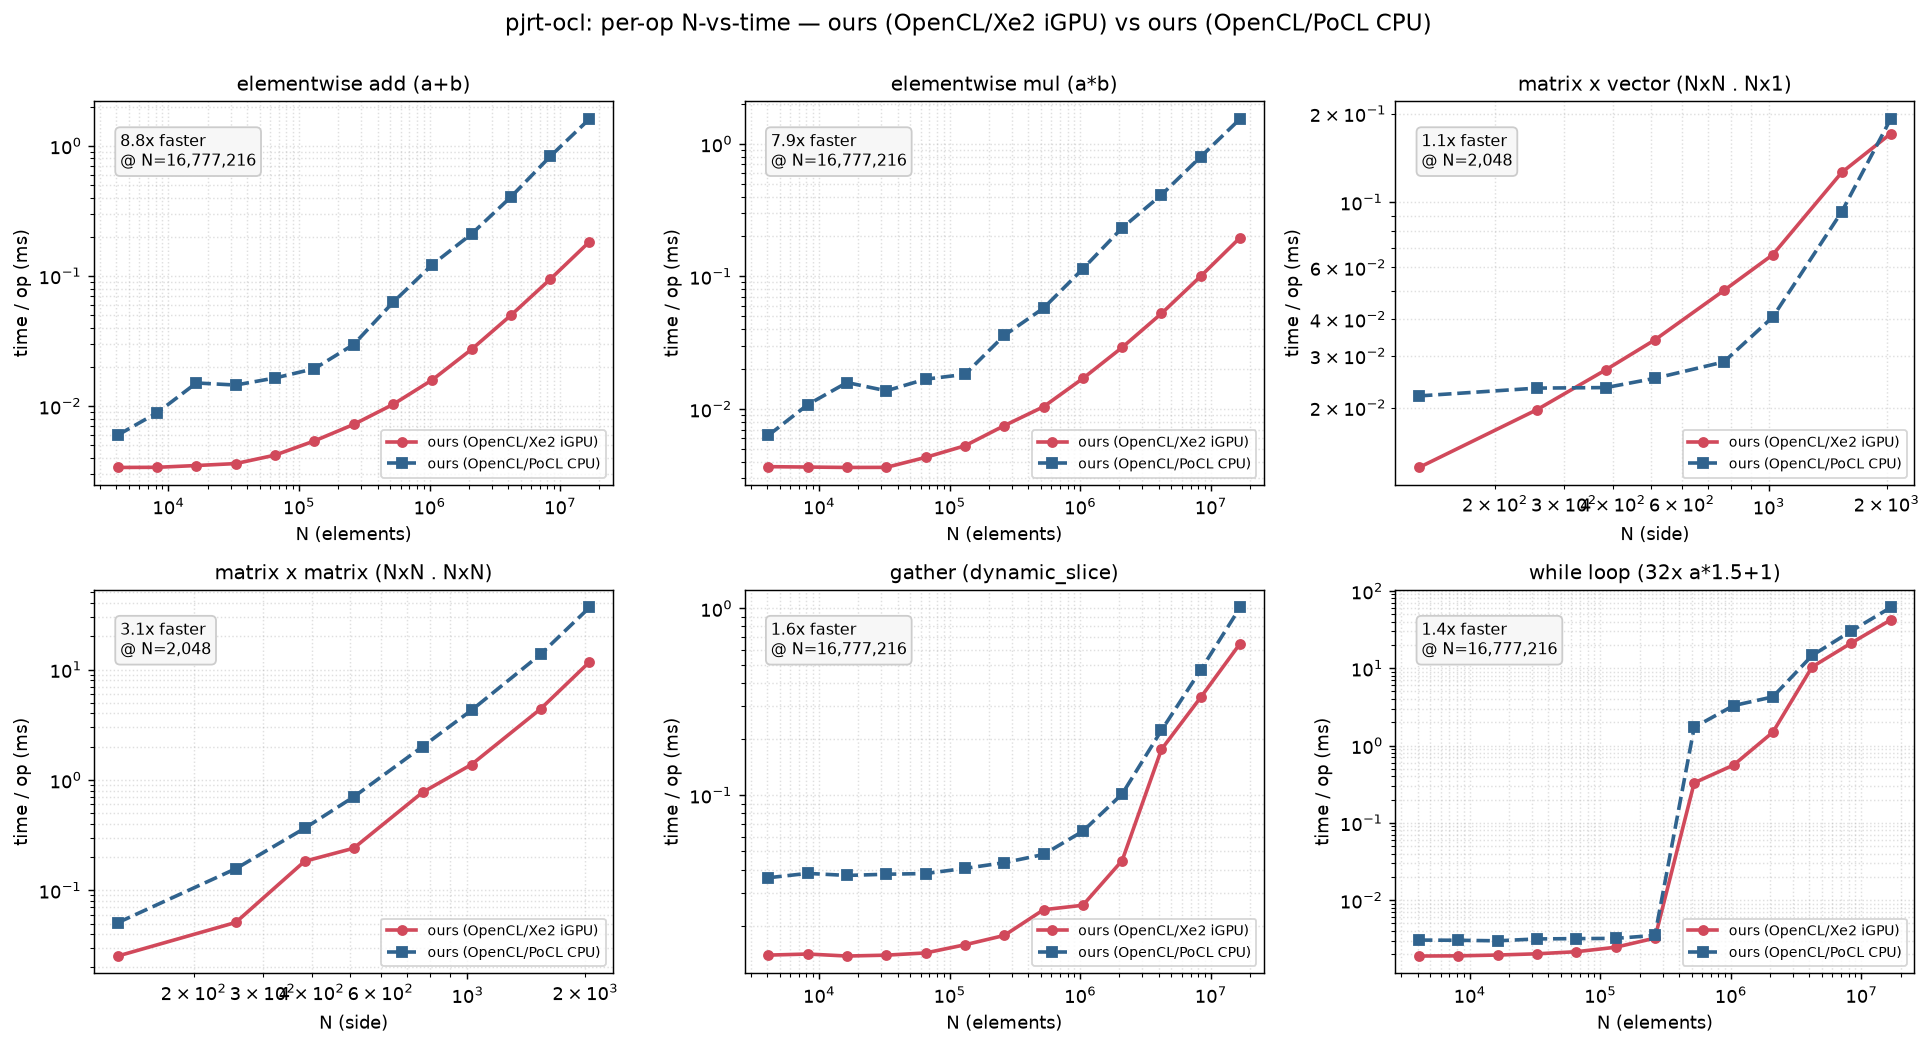
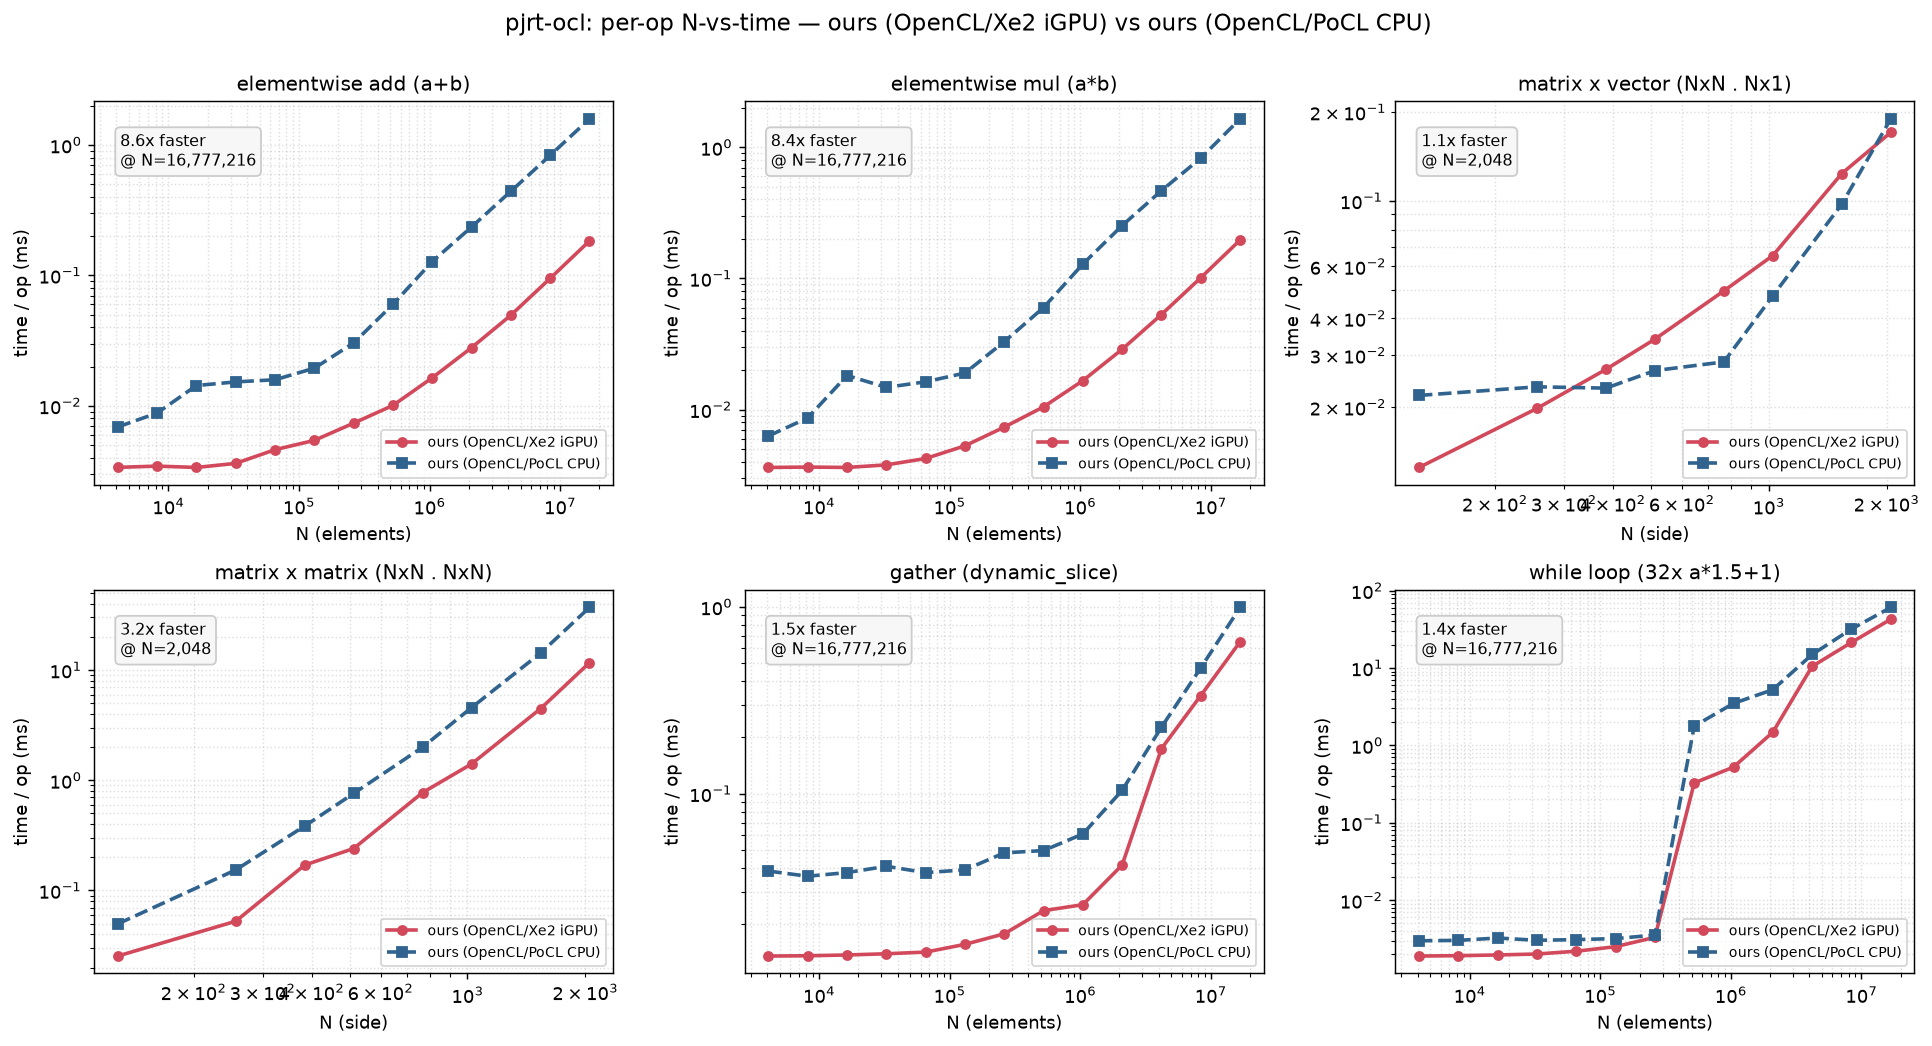
docs(README): regenerate Xe2/PoCL benchmarks against current HEAD + flag the open Xe2 softmax bug
Benchmarks re-run fresh so the README provably matches the committed code
(no plugin changes since the last regen; re-run anyway to be sure).

Xe2 vs JAX CPU: matmul now faster at EVERY measured size — 1.2x at 128, 1.8x
at 768, 2.4x at 1024, 2.5x at 2048 (11.7ms = ~1.47 TFLOP/s); elementwise
2.1-2.4x at 16M; gather 2.0x behind; while ~parity. Xe2 vs PoCL: 8.5x
elementwise, 3.2x matmul at 2048.

Two further corrections to claims that did not survive measurement:
- The PoCL bullet still carried the 'XLA fuses, we do not' story I had already
  fixed for Xe2. On PoCL our chain fusion IS weaker (16 chained adds = 7.7x a
  single add, vs 1.25x on Xe2) but the old '~16x the memory traffic' was wrong.
- 'PoCL streaming reaches ~120 GB/s (near LPDDR5X peak)' was an artifact of
  dividing a partially-fused chain by 16. True single-pass rate is ~56 GB/s.
- PoCL matmul at 2048 is now at parity, not 1.2x behind — but the XLA CPU
  reference swung 30->42ms between runs, so it is stated as parity, not a win.

Adds the 18/18 workload-suite result for Xe2, and a prominent warning that the
fused softmax kernel returns wrong results on Xe2 (§50) — it slips under the
test tolerance, so 'suite green' above must not be read as 'softmax correct'.

diff --git a/README.md b/README.md
@@ -7,7 +7,9 @@ on the execution path.
 
 > ⚠️ **Experimental / work in progress.** A growing subset of StableHLO ops across the
 > full JAX dtype matrix (f32/f64/i32/u32/i64/bool/f16/bf16), not yet on PyPI. Validated
-> end-to-end on an NVIDIA RTX PRO 6000 (via NVIDIA's OpenCL) and on PoCL (CPU). Not
+> end-to-end on an NVIDIA RTX PRO 6000 (via NVIDIA's OpenCL), an Intel Arc 140V
+> **Xe2** iGPU, and on PoCL (CPU) — see the
+> [known Xe2 `softmax` bug](#intel-arc-140v-xe2-lunar-lake-igpu--vs-jax-cpu). Not
 > affiliated with Google, OpenXLA, or the JAX project.
 >
 > **Workload coverage:** a diverse testbench of **18 AI + scientific + physics workloads**
@@ -324,10 +326,21 @@ latency is future scan/control-flow fusion work.
 
 ### Intel Arc 140V (Xe2, Lunar Lake iGPU) — vs JAX CPU
 
-**Testbench: full suite green** (`intel-opencl-icd` 26.22). No native JAX
-plugin exists for this iGPU, so the reference is JAX's XLA **CPU** backend on
-the same package (Core Ultra 9 288V) — cross-device but honest: it's the
-alternative you'd actually use.
+**Testbench: full suite green** (407 tests; `intel-opencl-icd` 26.22) and the
+**18-workload application suite is 18/18 PASS with zero missing ops**
+(`docs/workload-coverage-xe2.md`). No native JAX plugin exists for this iGPU,
+so the reference is JAX's XLA **CPU** backend on the same package (Core Ultra
+9 288V) — cross-device but honest: it's the alternative you'd actually use.
+
+> ⚠️ **Known correctness bug on Xe2: `softmax` can return wrong results.**
+> The fused softmax kernel is non-deterministic *across processes* — e.g.
+> `jax.nn.softmax` on a (64,10) f32 array is wrong in ~14 of 16 runs, corrupting
+> a run of tail rows. The error (~5e-3 on ~0.1 values) is small enough to slip
+> under the test suite's tolerance, which is why everything above still reports
+> green. PoCL is unaffected. Bisected to `TOP_SOFTMAX_SEG`; **not yet fixed** —
+> details and a reproducer in `docs/decisions.md` §50. Treat Xe2 softmax (and
+> anything built on it) as suspect until then. Flash-attention uses a separate
+> kernel and is not implicated.
 
 ![ours (OpenCL/Xe2) vs JAX CPU, per-op N-vs-time](docs/bench_plot_xe2.png)
 
@@ -343,14 +356,15 @@ alternative you'd actually use.
   (NVIDIA: hundreds of lanes) keep the megakernel. `PJRT_OCL_ENGINE=mega`
   forces it back. See `docs/decisions.md` §44.
 - **Large arrays are where the iGPU pays off**: elementwise at 16M runs
-  **~2.2x faster** than XLA CPU. Both backends *fuse* the benchmark's
+  **~2.1–2.4x faster** than XLA CPU. Both backends *fuse* the benchmark's
   elementwise chain into ~one memory pass (ours costs 1.25x a single add for
   16 chained adds, not 16x), so this is an honest bandwidth-vs-bandwidth
   comparison: ~76 GB/s for us against the shared LPDDR5X's ~136 GB/s
   theoretical peak. Streaming ops sit at that same ~75 GB/s ceiling
   (`dynamic_slice` included) — headroom remains.
-- **`dot_general` is 2.4–2.7x faster than XLA CPU at every size ≥256**
-  (~1.47 TFLOP/s at 2048³). Two fixes got it there, both in
+- **`dot_general` is faster than XLA CPU at every measured size** — 1.2x at
+  128³, 1.5–1.9x through 768³, and **2.4–2.7x from 1024³ to 2048³**
+  (11.7 ms at 2048³ = **~1.47 TFLOP/s**). Two fixes got it there, both in
   `docs/decisions.md` §45–§46: the SGEMM's staged K-block was halved
   (`MM2_BK` 16→8 — an *occupancy* win, not a register one: it halves
   local-memory per workgroup so twice as many stay co-resident, poc/19), and —
@@ -379,23 +393,27 @@ same 8 cores. It answers "what does the OpenCL detour cost on a CPU?" —
 
 ![ours (OpenCL/PoCL) vs JAX native CPU, per-op N-vs-time](docs/bench_plot_pocl.png)
 
-- **PoCL streaming reaches ~120 GB/s (near LPDDR5X peak).** CPU OpenCL
-  runtimes only auto-vectorize the implicit work-item loop, which our in-kernel
-  tile loops defeated — every hot tile body now has an explicit-`float8` CPU
-  variant selected by a device-keyed build define (`poc/09-cpu-kernels`,
-  `docs/decisions.md` §11). Per **memory pass** we match native XLA CPU, but
-  on this host the chained bench reports us **~3.5x behind on streaming**: XLA
-  fuses an elementwise chain into a single pass while our bytecode VM executes
-  each op as a real read-modify-write, so we move ~16x the memory traffic on
-  this synthetic chain. On unfused real programs the gap closes (see the
-  workload suite).
-- **`dot_general` is ~1.2x behind native XLA CPU** at 2048³: the packed +
-  KC-blocked CPU SGEMM (`poc/10-cpu-sgemm`) reaches ~150 GFLOP/s vs Eigen's
-  ~180 here. `PJRT_OCL_MM_CPU=reg` selects the simpler register kernel for
-  hardware that prefers it. `gather` pays a per-slice host-dispatch launch
-  (~5x behind at 16M); below ~1M elements the PoCL launch floor keeps small
-  ops several x slower (host-dispatch phases are batched onto the in-order
-  queue; the remaining floor is one `clFinish` + PoCL's per-command cost).
+- **PoCL streaming runs at ~56 GB/s single-pass.** CPU OpenCL runtimes only
+  auto-vectorize the implicit work-item loop, which our in-kernel tile loops
+  defeated — every hot tile body now has an explicit-`float8` CPU variant
+  selected by a device-keyed build define (`poc/09-cpu-kernels`,
+  `docs/decisions.md` §11). On the chained bench we land **~3.7–4.0x behind
+  native XLA CPU** at 16M. Two things drive that, and only one is a kernel
+  issue: 56 GB/s is roughly half what the iGPU gets out of the same LPDDR5X,
+  *and* our elementwise chain-fusion is much weaker on the CPU path than on
+  the GPU one (16 chained adds cost **7.7x** a single add here, versus 1.25x
+  on Xe2), so we move more memory traffic than XLA's fully-fused loop.
+- **`dot_general` is ~at parity with native XLA CPU at 2048³** (37.0 vs
+  42.1 ms) and ~1.4x behind at ≤512³: the packed + KC-blocked CPU SGEMM
+  (`poc/10-cpu-sgemm`). Treat the large-matmul comparison as parity rather
+  than a win — the XLA CPU reference swung 30→42 ms between runs on this
+  host, which is larger than the gap. `PJRT_OCL_MM_CPU=reg` selects the
+  simpler register kernel for hardware that prefers it. `gather` pays a
+  per-slice host-dispatch launch (~2.9x behind at 16M), `while` is 1.45x
+  behind, and `matvec` is at parity; below ~1M elements the PoCL launch floor
+  keeps small ops several x slower (host-dispatch phases are batched onto the
+  in-order queue; the remaining floor is one `clFinish` + PoCL's per-command
+  cost).
 - If your machine has *any* supported GPU — including an iGPU — prefer it
   (see below). PoCL remains the bring-up/debug/CI backend: printf, host
   debuggers, and sanitizers all work there.
@@ -410,9 +428,10 @@ bytecode through this plugin
 ![ours Xe2 iGPU vs ours PoCL CPU, per-op N-vs-time](docs/bench_plot_lnl_xe2_vs_pocl.png)
 
 - Both run the identical bytecode on shared LPDDR5X, yet the iGPU wins
-  everywhere: **~8x** on elementwise at 16M (32 XVEs outpace 8 CPU cores on
-  the same memory), **~1.5x** on `gather` and the `while` loop, **2.6x** on
-  `matmul` at 768³ and **~3x** at 2048³ after the §45–§46 matmul work.
+  everywhere: **~8.5x** on elementwise at 16M (32 XVEs outpace 8 CPU cores on
+  the same memory), **1.5x** on `gather`, **1.4x** on the `while` loop, **1.1x**
+  on `matvec`, and **2.6x** on `matmul` at 768³ rising to **3.2x** at 2048³
+  after the §45–§46 matmul work.
 - Practical guidance: on any machine with a working GPU ICD, the default
   device selection (first GPU) is the right choice — it never loses, and wins
   big on compute-dense programs. Select PoCL explicitly